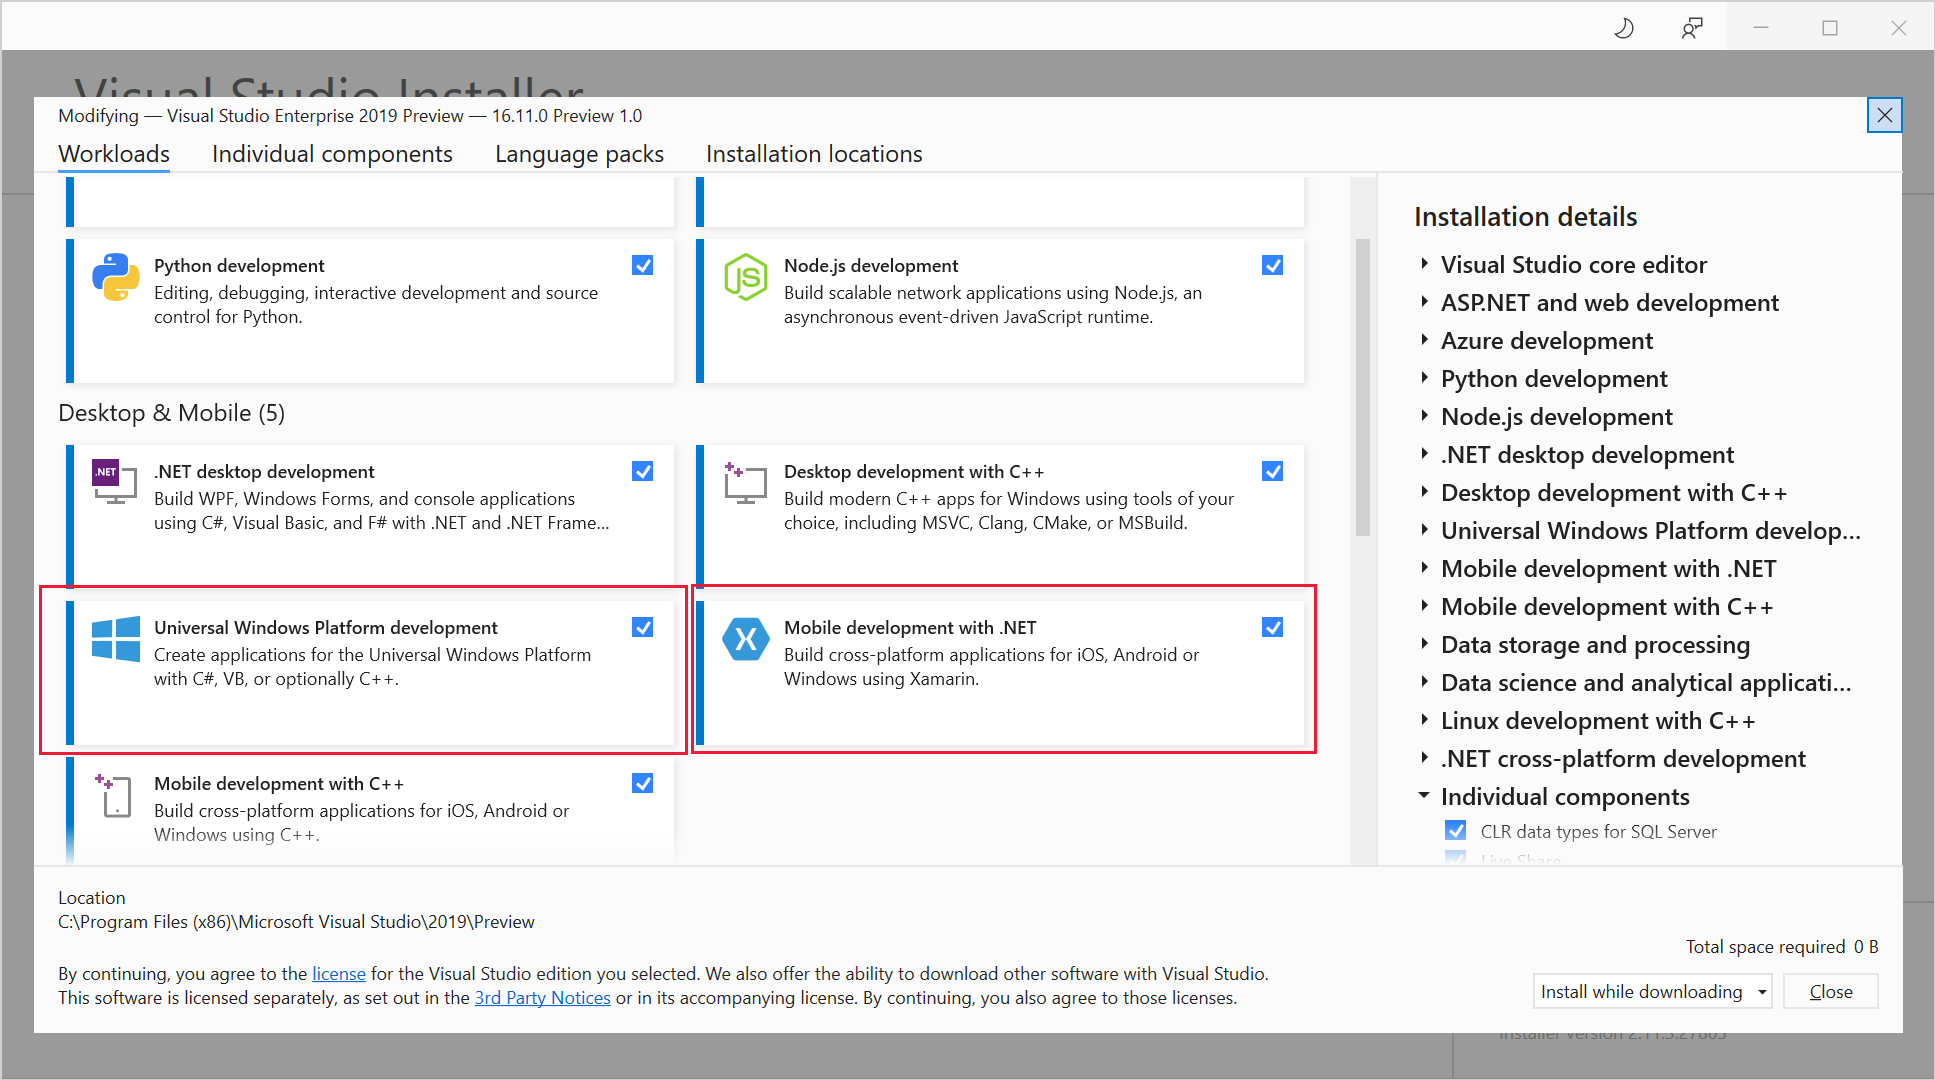
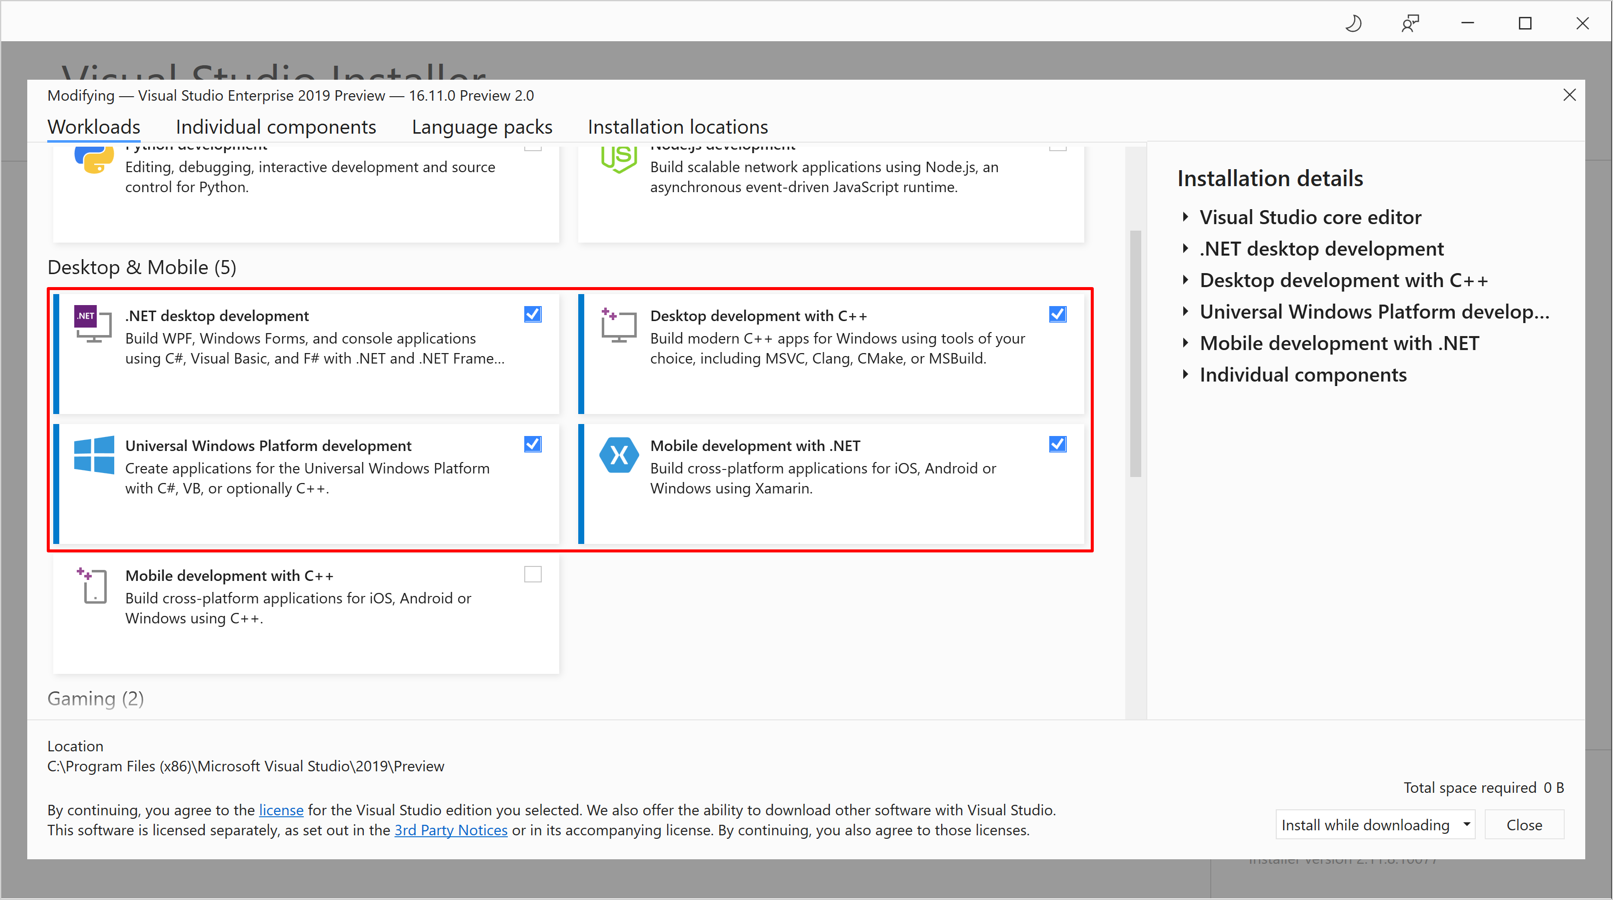
Preview 5 updates.

diff --git a/docs/get-started/installation.md b/docs/get-started/installation.md
@@ -1,7 +1,7 @@
 ---
 title: ".NET MAUI installation"
 description: "Installation instructions for .NET MAUI."
-ms.date: 06/09/2021
+ms.date: 06/17/2021
 ---
 
 # .NET MAUI installation
@@ -9,9 +9,23 @@ ms.date: 06/09/2021
 > [!IMPORTANT]
 > These requirements will change as new preview releases of Visual Studio and .NET MAUI are released.
 
-To create .NET Multi-platform App UI (MAUI) apps, you currently require .NET 6 Preview 4 with .NET MAUI and the platform SDKs for Android, iOS, macOS, tvOS, and Mac Catalyst. You also need [Visual Studio 16.11 Preview 1](https://visualstudio.microsoft.com/vs/preview/) with the Mobile development with .NET and Universal Windows Platform development workloads installed:
+To create .NET Multi-platform App UI (MAUI) apps, you currently require .NET 6 Preview 5 with .NET MAUI and the platform SDKs for Android, iOS, macOS, tvOS, and Mac Catalyst. You also need [Visual Studio 16.11 Preview 2](https://visualstudio.microsoft.com/vs/preview/) with the following workloads installed:
+
+- Mobile development with .NET
+- Universal Windows Platform development
+- Desktop development with C++
+- .NET Desktop Development
 
 :::image type="content" source="installation-images/vs-workloads.png" alt-text="Visual Studio workload":::
+
+In addition, you must currently install the following Visual Studio extensions to create apps that target Windows UI Library (WinUI) 3:
+
+- [Project Reunion (Preview)](https://marketplace.visualstudio.com/items?itemName=ProjectReunion.MicrosoftProjectReunionPreview)
+- [Single-project MSIX Packaging Tools](https://marketplace.visualstudio.com/items?itemName=ProjectReunion.MicrosoftSingleProjectMSIXPackagingTools)
+
+For more information about the required workloads and components for WinUI 3 development, see [Required workloads and components](/windows/apps/project-reunion/set-up-your-development-environment#required-workloads-and-components).
+
+## Install .NET 6 Preview 5
 
 To verify your development environment, and install any missing components, use the [maui-check](https://github.com/Redth/dotnet-maui-check) utility. Install this utility using the following .NET CLI command:
 
@@ -34,7 +48,7 @@ If any tools and SDKs required by .NET MAUI are missing, `maui-check` will insta
   _  | |\  | | |___    | |     | |  | |  / ___ \  | |_| |  | |
  (_) |_| \_| |_____|   |_|     |_|  |_| /_/   \_\  \___/  |___|
 
-☼ .NET MAUI Check ☼
+* .NET MAUI Check v0.5.6.0 *
 ────────────────────────────────────────────────────────────────────────────────────────────────────────────────────────
 This tool will attempt to evaluate your .NET MAUI development environment.
 If problems are detected, this tool may offer the option to try and fix them for you, or suggest a way to fix them
@@ -46,65 +60,77 @@ Thanks for choosing .NET MAUI!
 » Scheduling appointments... ok
 
 > OpenJDK 11.0 Checkup...
-  - 11.0.10 (C:\Program Files\Microsoft\jdk-11.0.10.9-hotspot\bin\..)
-  - 1.8.0-25 (C:\Program Files\Android\Jdk\microsoft_dist_openjdk_1.8.0.25)
+ - 11.0.10 (C:\Program Files\Microsoft\jdk-11.0.10.9-hotspot\bin\..)
+ - 1.8.0-25 (C:\Program Files\Android\Jdk\microsoft_dist_openjdk_1.8.0.25)
 
-> Visual Studio 16.10.0-pre.2.1 Checkup...
-  - 16.11.0-pre.1.0 - C:\Program Files (x86)\Microsoft Visual Studio\2019\Preview
-  - 16.10.0 - C:\Program Files (x86)\Microsoft Visual Studio\2019\Enterprise
+> Visual Studio 16.10.0 Checkup...
+ - 16.9.6
+ - 16.11.0-pre.2.0 - C:\Program Files (x86)\Microsoft Visual Studio\2019\Preview
+ - 15.9.18
 
 > Android SDK Checkup...
-  - emulator (30.1.5)
-  - build-tools;30.0.2 (30.0.2)
-  - platforms;android-30 (3)
-  - system-images;android-30;google_apis_playstore;x86 (9)
-  - platform-tools (30.0.4)
+ - emulator (30.6.5)
+ - build-tools;30.0.2 (30.0.2)
+ - platforms;android-30 (3)
+ - system-images;android-30;google_apis;x86 (9)
+ - platform-tools (30.0.4)
 
 > Android Emulator Checkup...
-  - Emulator: pixel_2_r_11_0_-_api_30 found.
+ - Emulator: pixel_2_xl_pie_9_0_api_28 found.
 
 > .NET SDK Checkup...
-  - 3.1.115 - C:\Program Files\dotnet\sdk\3.1.115
-  - 5.0.104 - C:\Program Files\dotnet\sdk\5.0.104
-  - 5.0.300-preview.21258.4 - C:\Program Files\dotnet\sdk\5.0.300-preview.21258.4
-  - 5.0.300 - C:\Program Files\dotnet\sdk\5.0.300
-  - 6.0.100-preview.4.21255.9 - C:\Program Files\dotnet\sdk\6.0.100-preview.4.21255.9
+ - 2.1.200 - C:\Program Files\dotnet\sdk\2.1.200
+ - 2.1.201 - C:\Program Files\dotnet\sdk\2.1.201
+ - 2.1.202 - C:\Program Files\dotnet\sdk\2.1.202
+ - 2.1.400 - C:\Program Files\dotnet\sdk\2.1.400
+ - 2.1.402 - C:\Program Files\dotnet\sdk\2.1.402
+ - 2.1.403 - C:\Program Files\dotnet\sdk\2.1.403
+ - 2.1.500 - C:\Program Files\dotnet\sdk\2.1.500
+ - 2.1.502 - C:\Program Files\dotnet\sdk\2.1.502
+ - 2.1.504 - C:\Program Files\dotnet\sdk\2.1.504
+ - 2.1.505 - C:\Program Files\dotnet\sdk\2.1.505
+ - 2.1.507 - C:\Program Files\dotnet\sdk\2.1.507
+ - 2.1.509 - C:\Program Files\dotnet\sdk\2.1.509
+ - 2.1.602 - C:\Program Files\dotnet\sdk\2.1.602
+ - 2.1.700 - C:\Program Files\dotnet\sdk\2.1.700
+ - 2.1.801 - C:\Program Files\dotnet\sdk\2.1.801
+ - 5.0.203 - C:\Program Files\dotnet\sdk\5.0.203
+ - 5.0.400-preview.21277.10 - C:\Program Files\dotnet\sdk\5.0.400-preview.21277.10
+ - 6.0.100-preview.5.21302.13 - C:\Program Files\dotnet\sdk\6.0.100-preview.5.21302.13
+
+> .NET SDK - Workload Deduplication Checkup...
 
 > .NET SDK - EnableWorkloadResolver.sentinel Checkup...
-  - C:\Program Files (x86)\Microsoft Visual
+ - C:\Program Files (x86)\Microsoft Visual
 Studio\2019\Preview\MSBuild\Current\Bin\SdkResolvers\Microsoft.DotNet.MSBuildSdkResolver\EnableWorkloadResolver.sentinel
 exists.
-  - C:\Program Files (x86)\Microsoft Visual
-Studio\2019\Enterprise\MSBuild\Current\Bin\SdkResolvers\Microsoft.DotNet.MSBuildSdkResolver\EnableWorkloadResolver.senti
-nel exists.
-  - C:\Program Files\dotnet\sdk\6.0.100-preview.4.21255.9\EnableWorkloadResolver.sentinel exists.
 
-> .NET SDK - Workloads (6.0.100-preview.4.21255.9) Checkup...
-  - microsoft-android-sdk-full (Microsoft.NET.Workload.Android : 11.0.200-preview.4.245) installed.
-  - microsoft-ios-sdk-full (Microsoft.NET.Workload.iOS : 14.5.100-preview.4.638) installed.
-  - microsoft-maccatalyst-sdk-full (Microsoft.NET.Workload.MacCatalyst : 14.5.100-preview.4.638) installed.
-  - microsoft-tvos-sdk-full (Microsoft.NET.Workload.tvOS : 14.5.100-preview.4.638) installed.
-  - microsoft-macos-sdk-full (Microsoft.NET.Workload.macOS : 11.3.100-preview.4.638) installed.
+> .NET SDK - Workloads (6.0.100-preview.5.21302.13) Checkup...
+ - microsoft-android-sdk-full (Microsoft.NET.Sdk.Android.Manifest-6.0.100 : 30.0.100-preview.5.28) installed.
+ - microsoft-ios-sdk-full (Microsoft.NET.Sdk.iOS.Manifest-6.0.100 : 14.5.100-preview.5.894) installed.
+ - microsoft-maccatalyst-sdk-full (Microsoft.NET.Sdk.MacCatalyst.Manifest-6.0.100 : 14.5.100-preview.5.894) installed.
+ - microsoft-tvos-sdk-full (Microsoft.NET.Sdk.tvOS.Manifest-6.0.100 : 14.5.100-preview.5.894) installed.
+ - microsoft-macos-sdk-full (Microsoft.NET.Sdk.macOS.Manifest-6.0.100 : 11.3.100-preview.5.894) installed.
 
-> .NET SDK - Packs (6.0.100-preview.4.21255.9) Checkup...
-  - Microsoft.Maui.Templates (6.0.100-preview.4.634) installed.
-  - Microsoft.iOS.Windows.Sdk (14.5.100-preview.4.638) installed.
-  - Microsoft.Android.Sdk (11.0.200-preview.4.245) installed.
-  - Microsoft.Android.Sdk.BundleTool (11.0.200-preview.4.245) installed.
-  - Microsoft.Android.Ref (11.0.200-preview.4.245) installed.
-  - Microsoft.Android.Templates (11.0.200-preview.4.245) installed.
-  - Microsoft.iOS.Sdk (14.5.100-preview.4.638) installed.
-  - Microsoft.iOS.Ref (14.5.100-preview.4.638) installed.
-  - Microsoft.iOS.Templates (14.5.100-preview.4.638) installed.
-  - Microsoft.MacCatalyst.Sdk (14.5.100-preview.4.638) installed.
-  - Microsoft.MacCatalyst.Ref (14.5.100-preview.4.638) installed.
-  - Microsoft.MacCatalyst.Templates (14.5.100-preview.4.638) installed.
-  - Microsoft.tvOS.Sdk (14.5.100-preview.4.638) installed.
-  - Microsoft.tvOS.Ref (14.5.100-preview.4.638) installed.
-  - Microsoft.tvOS.Templates (14.5.100-preview.4.638) installed.
-  - Microsoft.macOS.Sdk (11.3.100-preview.4.638) installed.
-  - Microsoft.macOS.Ref (11.3.100-preview.4.638) installed.
-  - Microsoft.macOS.Templates (11.3.100-preview.4.638) installed.
+> .NET SDK - Packs (6.0.100-preview.5.21302.13) Checkup...
+ - Microsoft.Maui.Templates (6.0.100-preview.5.794) installed.
+ - Microsoft.Android.Sdk (30.0.100-preview.5.28) installed.
+ - Microsoft.Android.Sdk.BundleTool (30.0.100-preview.5.28) installed.
+ - Microsoft.Android.Ref (30.0.100-preview.5.28) installed.
+ - Microsoft.Android.Templates (30.0.100-preview.5.28) installed.
+ - Microsoft.iOS.Sdk (14.5.100-preview.5.894) installed.
+ - Microsoft.iOS.Windows.Sdk (14.5.100-preview.5.894) installed.
+ - Microsoft.iOS.Ref (14.5.100-preview.5.894) installed.
+ - Microsoft.iOS.Templates (14.5.100-preview.5.894) installed.
+ - Microsoft.MacCatalyst.Sdk (14.5.100-preview.5.894) installed.
+ - Microsoft.MacCatalyst.Ref (14.5.100-preview.5.894) installed.
+ - Microsoft.MacCatalyst.Templates (14.5.100-preview.5.894) installed.
+ - Microsoft.tvOS.Sdk (14.5.100-preview.5.894) installed.
+ - Microsoft.tvOS.Ref (14.5.100-preview.5.894) installed.
+ - Microsoft.tvOS.Templates (14.5.100-preview.5.894) installed.
+ - Microsoft.macOS.Sdk (11.3.100-preview.5.894) installed.
+ - Microsoft.macOS.Ref (11.3.100-preview.5.894) installed.
+ - Microsoft.macOS.Templates (11.3.100-preview.5.894) installed.
 ────────────────────────────────────────────────────────────────────────────────────────────────────────────────────────
 
 - Congratulations, everything looks great!
@@ -118,7 +144,7 @@ Once a .NET MAUI app has been created, it can optionally be built using .NET CLI
 
 ```dotnetcli
 dotnet build -t:Run -f net6.0-android
-dotnet build -t:Run -f net6.0-ios
+dotnet build -t:Run -f net6.0-ios -p:_DeviceName=:v2:udid=<UDID>
 dotnet build -t:Run -f net6.0-maccatalyst
 ```
 
@@ -135,6 +161,9 @@ You can retrieve a list of possible unique device id (UDID) values by executing 
 ```console
 /Applications/Xcode.app/Contents/Developer/usr/bin/simctl list
 ```
+
+> [!NOTE]
+> The default iOS simulator will be launched if you don't specify a UDID.
 
 ## IDE support
 

diff --git a/docs/get-started/first-app.md b/docs/get-started/first-app.md
@@ -1,7 +1,7 @@
 ---
 title: "Build your first .NET MAUI app in Visual Studio"
 description: "How to create and run your first .NET MAUI app."
-ms.date: 06/09/2021
+ms.date: 06/17/2021
 ---
 
 # Build your first .NET MAUI app
@@ -10,13 +10,13 @@ In this tutorial, you'll learn how to create your first .NET Multi-platform App 
 
 ## Prerequisites
 
-- Visual Studio 2019 (build 16.11 Preview 1 or greater) or Visual Studio 2022 (any edition).
-- An environment that has been configured for .NET MAUI development, using the maui-check tool. For more information, see [Installation](installation.md).
+- An environment that has been configured for .NET MAUI development, using the maui-check tool. For more information, see [Install .NET 6 Preview 5](installation.md#install-net-6-preview-5).
+- Visual Studio 2019 (build 16.11 Preview 2 or greater) or Visual Studio 2022 (any edition), with the required workloads. For more information, see [Installation](installation.md).
 - A configured Android emulator. For more information about creating an Android emulator, see [Android emulator setup](/xamarin/android/get-started/installation/android-emulator/).
 
 ## Get started with Visual Studio 2019
 
-1. Launch VS2019 build 16.11 (Preview 1 or greater), and in the start window click **Create a new project** to create a new project:
+1. Launch VS2019 build 16.11 (Preview 2 or greater), and in the start window click **Create a new project** to create a new project:
 
     :::image type="content" source="first-app-images/new-solution.png" alt-text="New solution":::
 
@@ -28,24 +28,7 @@ In this tutorial, you'll learn how to create your first .NET Multi-platform App 
 
     :::image type="content" source="first-app-images/configure-project.png" alt-text="Configure the project":::
 
-    Wait for the project to be created. Note that Visual Studio hasn't restored the required .NET 6 dependencies. You'll restore them in a later step.
-
-    :::image type="content" source="first-app-images/broken-dependencies.png" alt-text="Broken dependencies":::
-
-1. In the .NET CLI, create a *nuget.config* file in the root folder of the project and add the `maui-preview` feed:
-
-    ```dotnetcli
-    dotnet new nugetconfig
-    dotnet nuget add source -n maui-preview https://aka.ms/maui-preview/index.json
-    ```
-
-1. In the .NET CLI, restore the dependencies for the newly created project:
-
-    ```dotnetcli
-    dotnet restore
-    ```
-
-    In Visual Studio, note that the dependencies have now been restored:
+    Wait for the project to be created, and its dependencies to be restored:
 
     :::image type="content" source="first-app-images/restored-dependencies.png" alt-text="Restored dependencies":::
 
